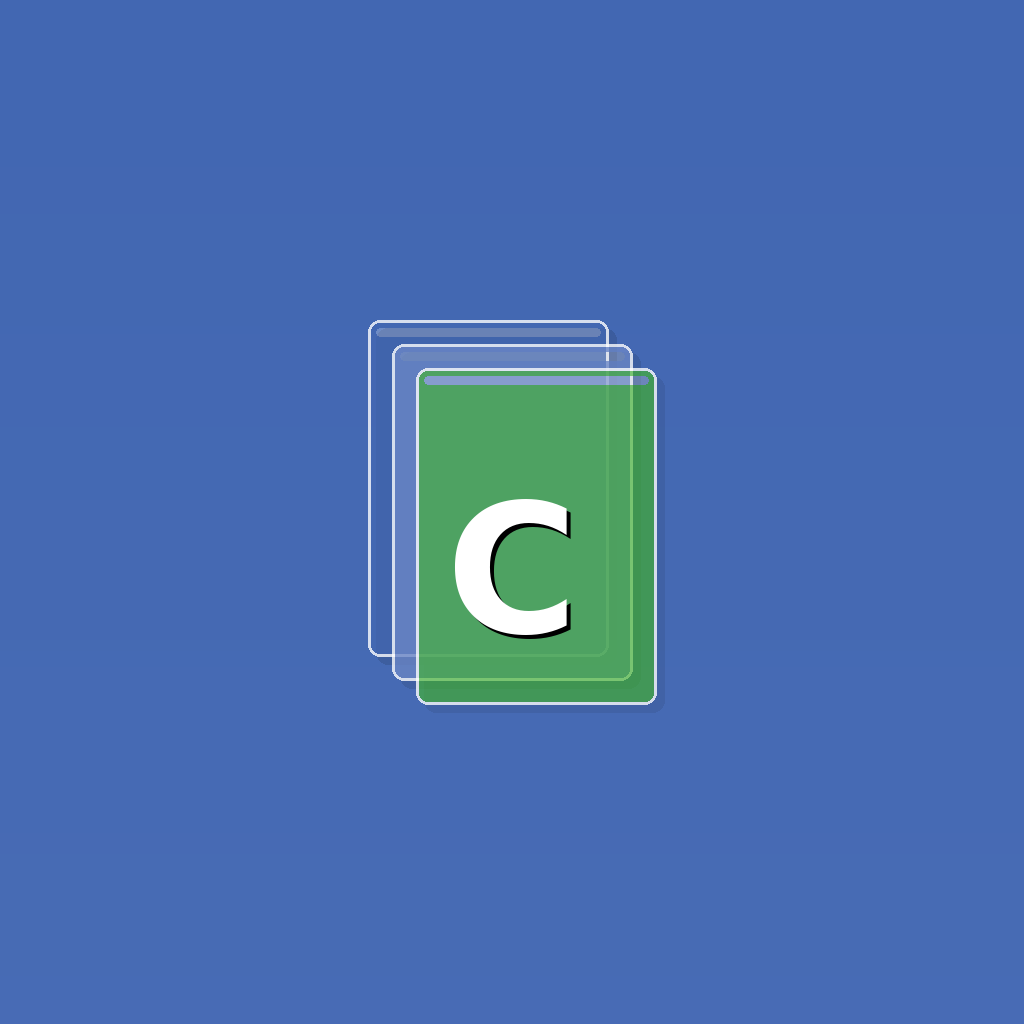
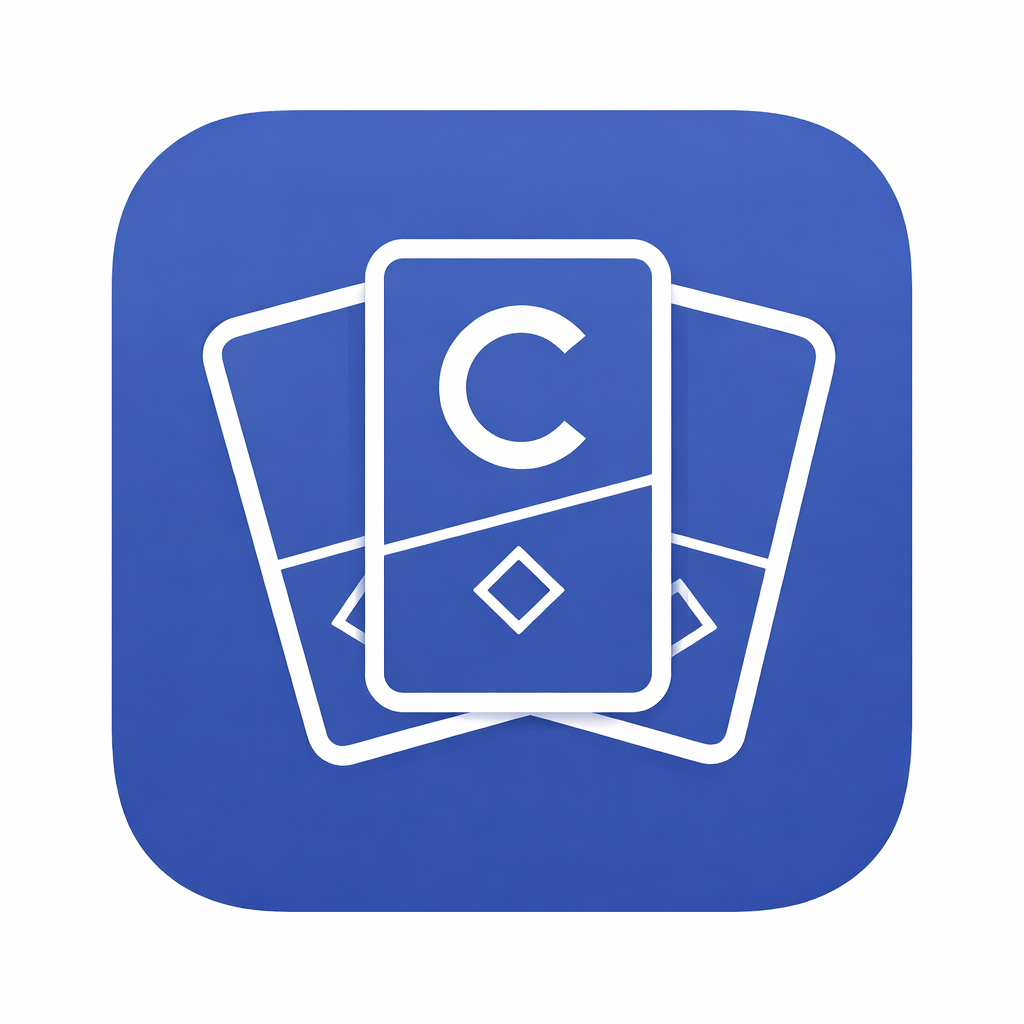
feat: FASE 6 - produccion, watermark backgrounds, icono y splash
- Componente WatermarkBackground con imagenes TCG a baja opacidad
- Fondos de agua alternados en SearchScreen, CollectionDetail y Wishlist
- App icon personalizado (cartas con C) 1024x1024
- Splash screen con branding CardTradr
- Configuracion EAS Build (development, preview, production)
- eas.json con perfiles APK para testing interno

🤖 Generated with [Claude Code](https://claude.com/claude-code)

diff --git a/src/screens/SearchScreen.tsx b/src/screens/SearchScreen.tsx
@@ -3,7 +3,7 @@ import { View, FlatList, RefreshControl, StyleSheet } from 'react-native';
 import { Searchbar, List, Button, Text, Divider, IconButton } from 'react-native-paper';
 import { colors, spacing } from '../theme';
 import { useGames, useExpansions, useCards } from '../hooks';
-import { ErrorMessage, EmptyState, CardPreview, CardGridItem, CollectionListSkeleton, CardListSkeleton, CardGridSkeleton } from '../components';
+import { ErrorMessage, EmptyState, CardPreview, CardGridItem, CollectionListSkeleton, CardListSkeleton, CardGridSkeleton, WatermarkBackground } from '../components';
 import { RarityFilter, SortSelector, ResultsCounter, SearchHistoryChips, ExtendedDataFilter } from '../components/search';
 import { useSettingsStore } from '../store/settings.store';
 import { useSearchStore } from '../store/search.store';
@@ -135,6 +135,7 @@ export default function SearchScreen({ navigation }: SearchScreenProps) {
   const hasActiveFilters = selectedRarities.length > 0 || Object.values(extendedFilters).some((v) => v.length > 0);
 
   return (
+    <WatermarkBackground variant={level === 'cards' ? 0 : 1}>
     <View style={styles.container}>
       {/* Breadcrumb */}
       <View style={styles.breadcrumb}>
@@ -242,6 +243,7 @@ export default function SearchScreen({ navigation }: SearchScreenProps) {
       {level === 'expansions' && renderExpansions()}
       {level === 'cards' && renderCards()}
     </View>
+    </WatermarkBackground>
   );
 
   function renderGames() {

diff --git a/src/screens/CollectionDetailScreen.tsx b/src/screens/CollectionDetailScreen.tsx
@@ -12,7 +12,7 @@ import {
 } from 'react-native-paper';
 import { colors, spacing } from '../theme';
 import { useCollectionCards, useRemoveCardFromCollection, useUpdateCollectionCard } from '../hooks';
-import { ErrorMessage, EmptyState, CardGridItem, CardListSkeleton, CardGridSkeleton, ConfirmDialog, useSnackbar, SwipeableRow } from '../components';
+import { ErrorMessage, EmptyState, CardGridItem, CardListSkeleton, CardGridSkeleton, ConfirmDialog, useSnackbar, SwipeableRow, WatermarkBackground } from '../components';
 import { haptics } from '../utils/haptics';
 import { useSettingsStore } from '../store/settings.store';
 import { exportCollectionToCsv } from '../utils/exportCsv';
@@ -123,6 +123,7 @@ export default function CollectionDetailScreen({ route, navigation }: Collection
   const isGrid = cardViewMode === 'grid';
 
   return (
+    <WatermarkBackground variant={1}>
     <View style={styles.container}>
       <FlatList
         key={cardViewMode}
@@ -226,6 +227,7 @@ export default function CollectionDetailScreen({ route, navigation }: Collection
         </Dialog>
       </Portal>
     </View>
+    </WatermarkBackground>
   );
 }
 

diff --git a/src/components/WatermarkBackground.tsx b/src/components/WatermarkBackground.tsx
@@ -1,0 +1,46 @@
+import React from 'react';
+import { ImageBackground, StyleSheet, View } from 'react-native';
+
+const BG_IMAGES = [
+  require('../../assets/backgrounds/bg-cards-1.png'),
+  require('../../assets/backgrounds/bg-cards-2.png'),
+];
+
+interface WatermarkBackgroundProps {
+  /** Index 0 or 1 to pick which background image to use */
+  variant?: 0 | 1;
+  children: React.ReactNode;
+}
+
+/**
+ * Full-screen watermark background that renders one of the two
+ * TCG-themed images at low opacity so UI content stays readable.
+ */
+export function WatermarkBackground({ variant = 0, children }: WatermarkBackgroundProps) {
+  const source = BG_IMAGES[variant % BG_IMAGES.length];
+
+  return (
+    <View style={styles.root}>
+      <ImageBackground
+        source={source}
+        style={styles.background}
+        imageStyle={styles.image}
+        resizeMode="cover"
+      >
+        {children}
+      </ImageBackground>
+    </View>
+  );
+}
+
+const styles = StyleSheet.create({
+  root: {
+    flex: 1,
+  },
+  background: {
+    flex: 1,
+  },
+  image: {
+    opacity: 0.06,
+  },
+});

diff --git a/src/screens/WishlistScreen.tsx b/src/screens/WishlistScreen.tsx
@@ -12,7 +12,7 @@ import {
 } from 'react-native-paper';
 import { colors, spacing } from '../theme';
 import { useWishlist, useUpdateWishlistItem, useRemoveFromWishlist } from '../hooks';
-import { ErrorMessage, EmptyState, WishlistSkeleton, ConfirmDialog, useSnackbar, SwipeableRow } from '../components';
+import { ErrorMessage, EmptyState, WishlistSkeleton, ConfirmDialog, useSnackbar, SwipeableRow, WatermarkBackground } from '../components';
 import { haptics } from '../utils/haptics';
 import type { WishlistItem } from '../types';
 
@@ -133,6 +133,7 @@ export default function WishlistScreen() {
   }
 
   return (
+    <WatermarkBackground variant={0}>
     <View style={styles.container}>
       <FlatList
         data={wishlist.data}
@@ -213,6 +214,7 @@ export default function WishlistScreen() {
         </Dialog>
       </Portal>
     </View>
+    </WatermarkBackground>
   );
 }
 

diff --git a/src/components/index.ts b/src/components/index.ts
@@ -8,6 +8,7 @@ export { SkeletonPlaceholder } from './SkeletonPlaceholder';
 export { SnackbarProvider, useSnackbar } from './SnackbarProvider';
 export { ConfirmDialog } from './ConfirmDialog';
 export { SwipeableRow } from './SwipeableRow';
+export { WatermarkBackground } from './WatermarkBackground';
 export {
   CollectionListSkeleton,
   CardListSkeleton,
